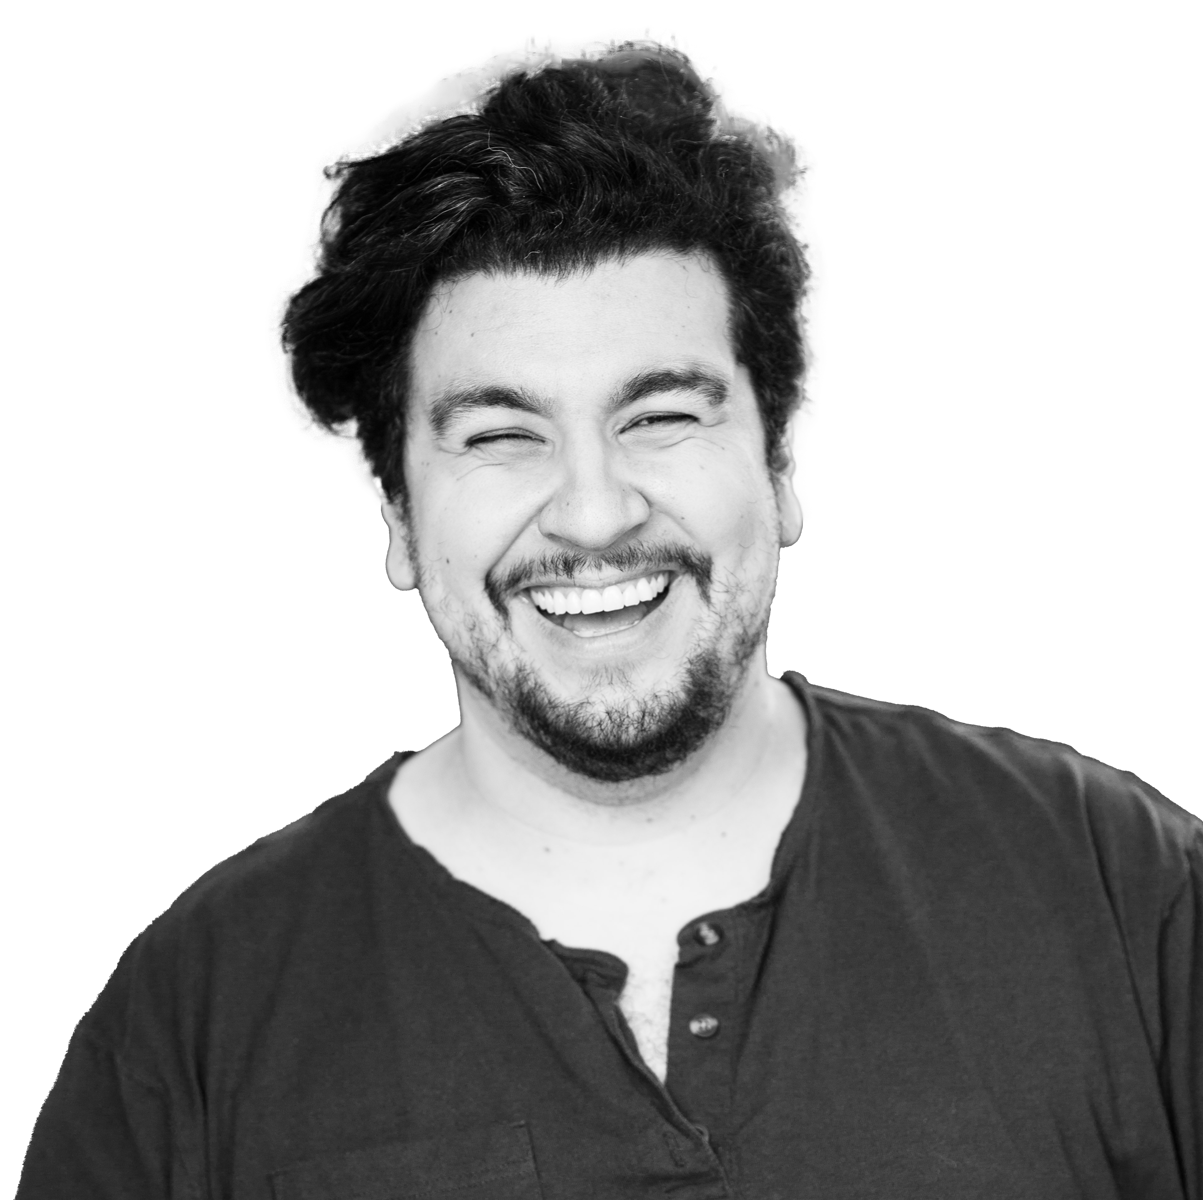
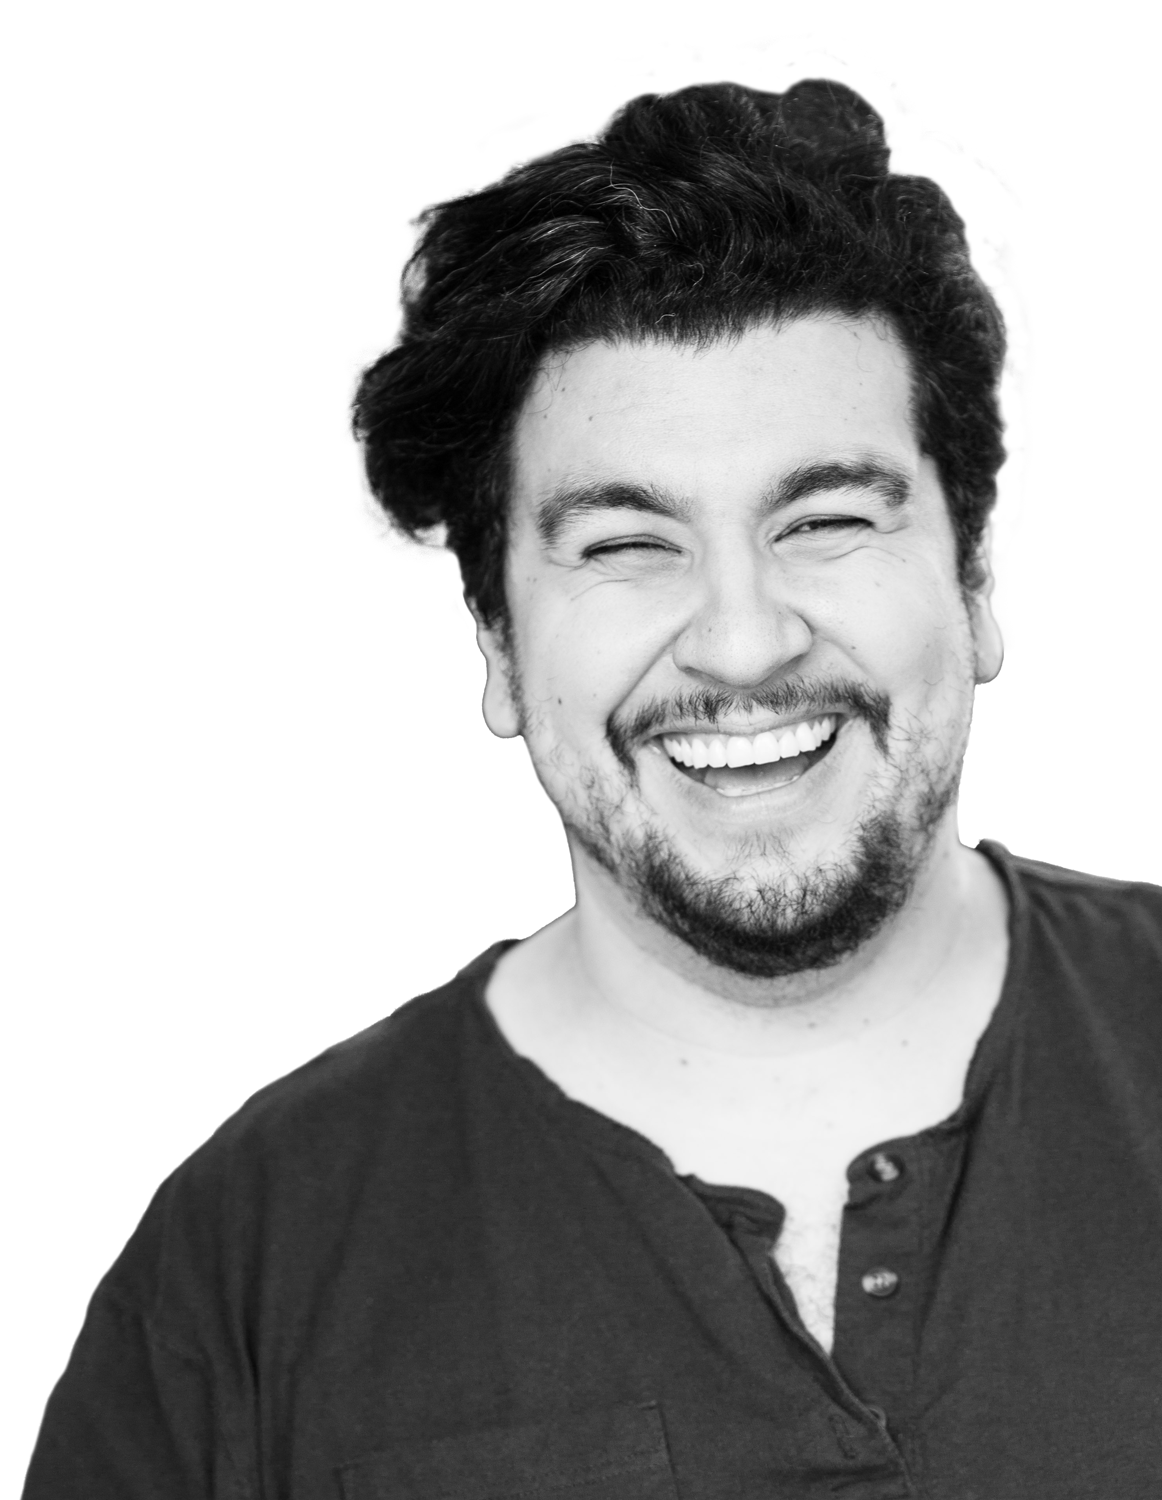
more things

diff --git a/src/constants/index.js b/src/constants/index.js
@@ -123,32 +123,67 @@ const technologies = [
 
 const experiences = [
   {
-    title: 'Front-End Developer',
-    company_name: 'Cover Hunt',
+    title: 'Web Developer',
+    company_name: 'K2',
     icon: coverhunt,
     iconBg: '#333333',
-    date: 'Aug 2021 - Feb 2022',
+    date: 'Oct 2010 - Apr 2011',
   },
   {
-    title: 'Mentor (Volunteer)',
-    company_name: 'Microverse',
+    title: '.NET Developer Intern',
+    company_name: 'FTI Tecnologia',
+    icon: coverhunt,
+    iconBg: '#333333',
+    date: 'Jun 2011 - Nov 2011',
+  },
+  {
+    title: '.NET Developer Intern',
+    company_name: 'Cantoni',
+    icon: coverhunt,
+    iconBg: '#333333',
+    date: 'Nov 2011 - Apr 2012',
+  },
+  {
+    title: 'Front End Developer',
+    company_name: 'ICOMP',
+    icon: coverhunt,
+    iconBg: '#333333',
+    date: 'Apr 2012 - Jun 2013',
+  },
+  {
+    title: 'Front End Developer',
+    company_name: 'NBR',
+    icon: coverhunt,
+    iconBg: '#333333',
+    date: 'Jun 2013 - Dec 2013',
+  },
+  {
+    title: 'Web UI Engineer',
+    company_name: 'Wundr',
+    icon: coverhunt,
+    iconBg: '#333333',
+    date: 'Apr 2014 - Sep 2014',
+  },
+  {
+    title: 'Web Developer',
+    company_name: 'Wallop',
     icon: microverse,
     iconBg: '#333333',
-    date: 'Mar 2022 - May 2022',
+    date: 'Sep 2014 - Dec 2014',
   },
   {
-    title: 'Junior Software Engineer',
-    company_name: 'Kelhel',
+    title: 'Front End Developer (Contract)',
+    company_name: 'MEC',
     icon: kelhel,
     iconBg: '#333333',
-    date: 'May 2022 - Oct 2022',
+    date: 'Jun 2015 - Apr 2016',
   },
   {
-    title: 'Full Stack Developer',
-    company_name: 'Diversity Cyber Council',
+    title: 'Lead Front End Developer',
+    company_name: 'TELUS Digital',
     icon: dcc,
     iconBg: '#333333',
-    date: 'Sep 2022 - Present',
+    date: 'Apr 2016 - Mar 2024',
   },
 ];
 

diff --git a/src/components/Experience.jsx b/src/components/Experience.jsx
@@ -7,7 +7,7 @@ import 'react-vertical-timeline-component/style.min.css';
 import { styles } from '../styles';
 import { experiences } from '../constants';
 import { SectionWrapper } from '../hoc';
-import { download, downloadHover, resume } from '../assets';
+import { download, drop, downloadHover, resume } from '../assets';
 import { textVariant } from '../utils/motion';
 
 const ExperienceCard = ({ experience }) => (
@@ -32,9 +32,9 @@ const ExperienceCard = ({ experience }) => (
     icon={
       <div className="flex justify-center items-center w-full h-full">
         <img
-          src={experience.icon}
+          src={drop}
           alt={experience.company_name}
-          className="w-[60%] h-[60%] object-contain"
+          className="w-[50%] h-[50%] object-contain"
         />
       </div>
     }>
@@ -43,7 +43,7 @@ const ExperienceCard = ({ experience }) => (
         {experience.title}
       </h3>
       <p
-        className="text-taupe text-[22px] font-semibold font-overcameBold tracking-[1px]"
+        className="text-taupe text-[22px] font-semibold tracking-[1px]"
         style={{ margin: 0 }}>
         {experience.company_name}
       </p>

diff --git a/src/components/Hero.jsx b/src/components/Hero.jsx
@@ -46,8 +46,8 @@ const Hero = () => {
               </span>
             </h1>
             <p className={`${styles.heroSubText} mt-2 text-eerieBlack`}>
-              I'm a Front End Developer <br className="sm:block hidden" />
-              with a passion for making things look really nice.
+              I write code to fix some things and make others pretty.<br className="sm:block hidden" />
+              Usually both at the same time.
             </p>
           </div>
           <div
@@ -79,15 +79,13 @@ const Hero = () => {
             </div>
           </a>
         </div>
-
-        {/* Your image comes here. Feel free to remove image if you don't plan to have one.*/}
         <div>
           <img
-            className="absolute bottom-0 ml-[50vw] 
+            className="absolute bottom-0 right-0 ml-[50vw] 
             lg:ml-[75vw] md:ml-[60vw] xmd:ml-[60vw] 2xl:ml-[83vw]
             sm:h-[90vh] md:h-[70vh] xl:h-[80vh]"
             src={andre5}
-            alt="shaquille"
+            alt="Andre"
           />
         </div>
       </section>

diff --git a/src/assets/index.js b/src/assets/index.js
@@ -5,8 +5,8 @@ import worldmap from './backgrounds/world-map.png';
 
 import logo from './logo/logo-black.png';
 import alldropsLogoBlack from './logo/alldrops-logo-black.png';
+import drop from './icons/drop.png';
 
-import shaq from './personal/shaq.png';
 import andre1 from './personal/andre1.png';
 import andre2 from './personal/andre2.png';
 import andre3 from './personal/andre3.png';
@@ -61,7 +61,7 @@ export {
   worldmap,
   logo,
   alldropsLogoBlack,
-  shaq,
+  drop,
   andre1,
   andre2,
   andre3,

diff --git a/index.html b/index.html
@@ -2,7 +2,7 @@
 <html lang="en">
   <head>
     <meta charset="UTF-8" />
-    <link rel="icon" type="image/svg+xml" href="/logo.png" />
+    <link rel="icon" type="image/svg+xml" href="/favicon.ico" />
     <meta name="viewport" content="width=device-width, initial-scale=1" />
     <title>Andre Lopes</title>
   </head>
